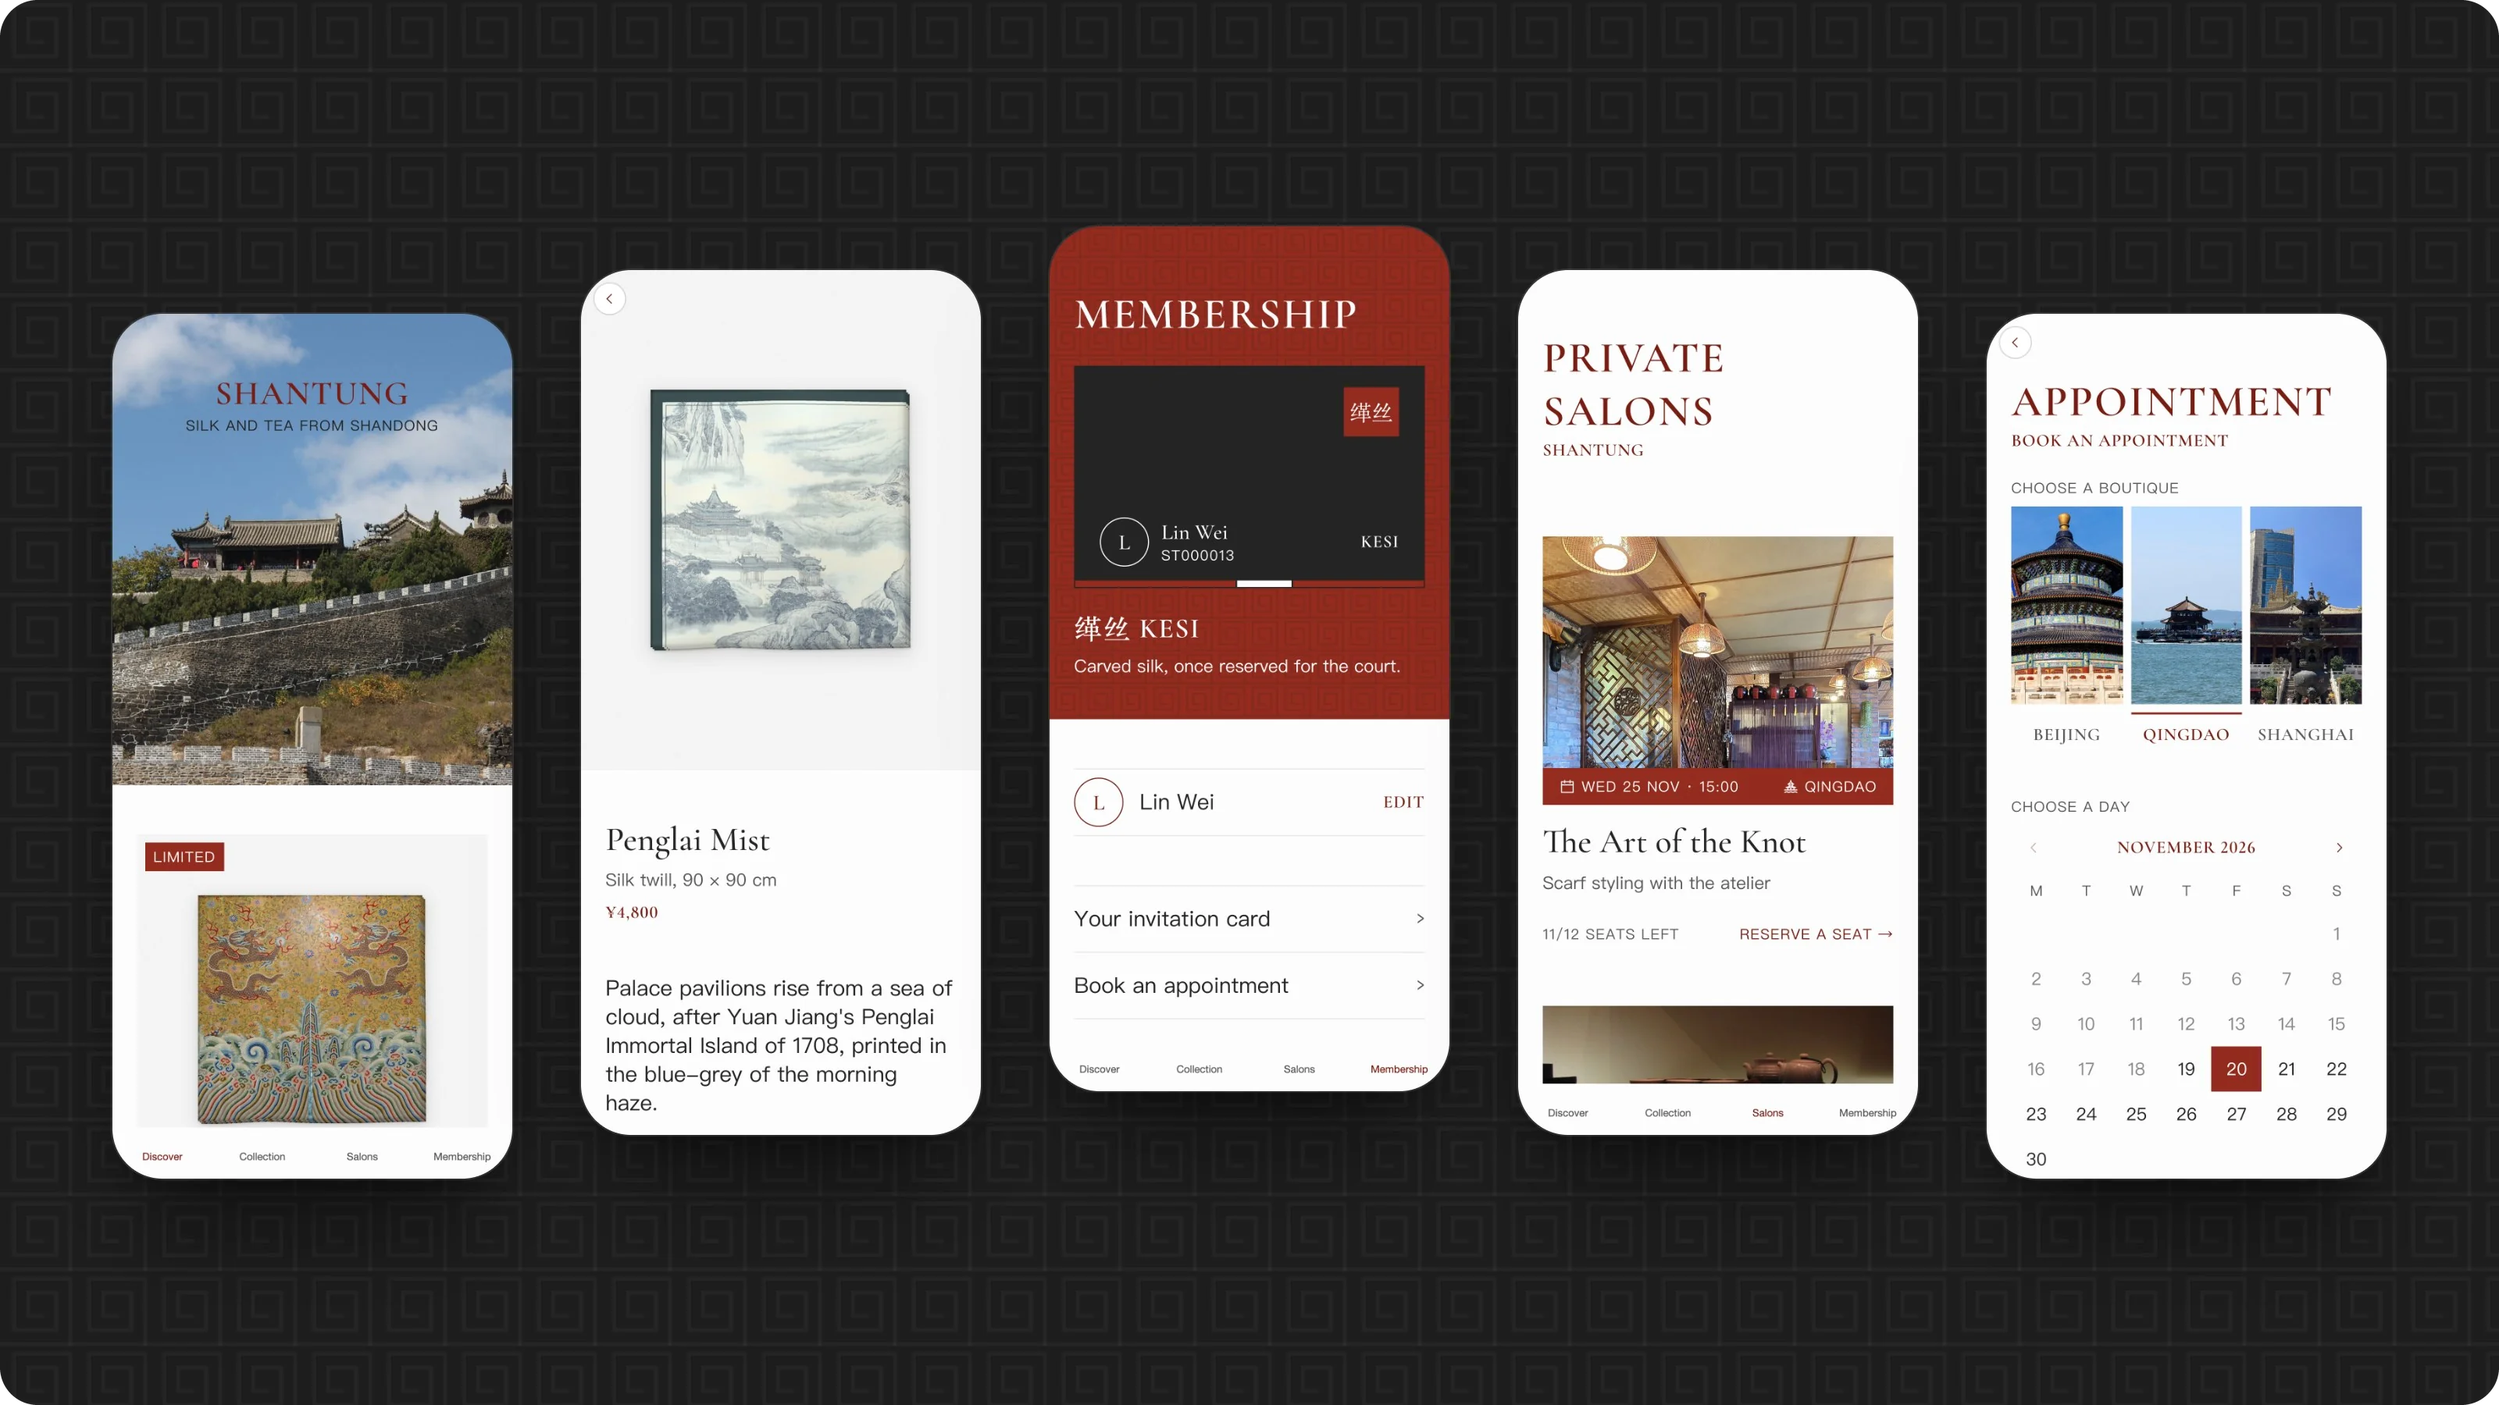
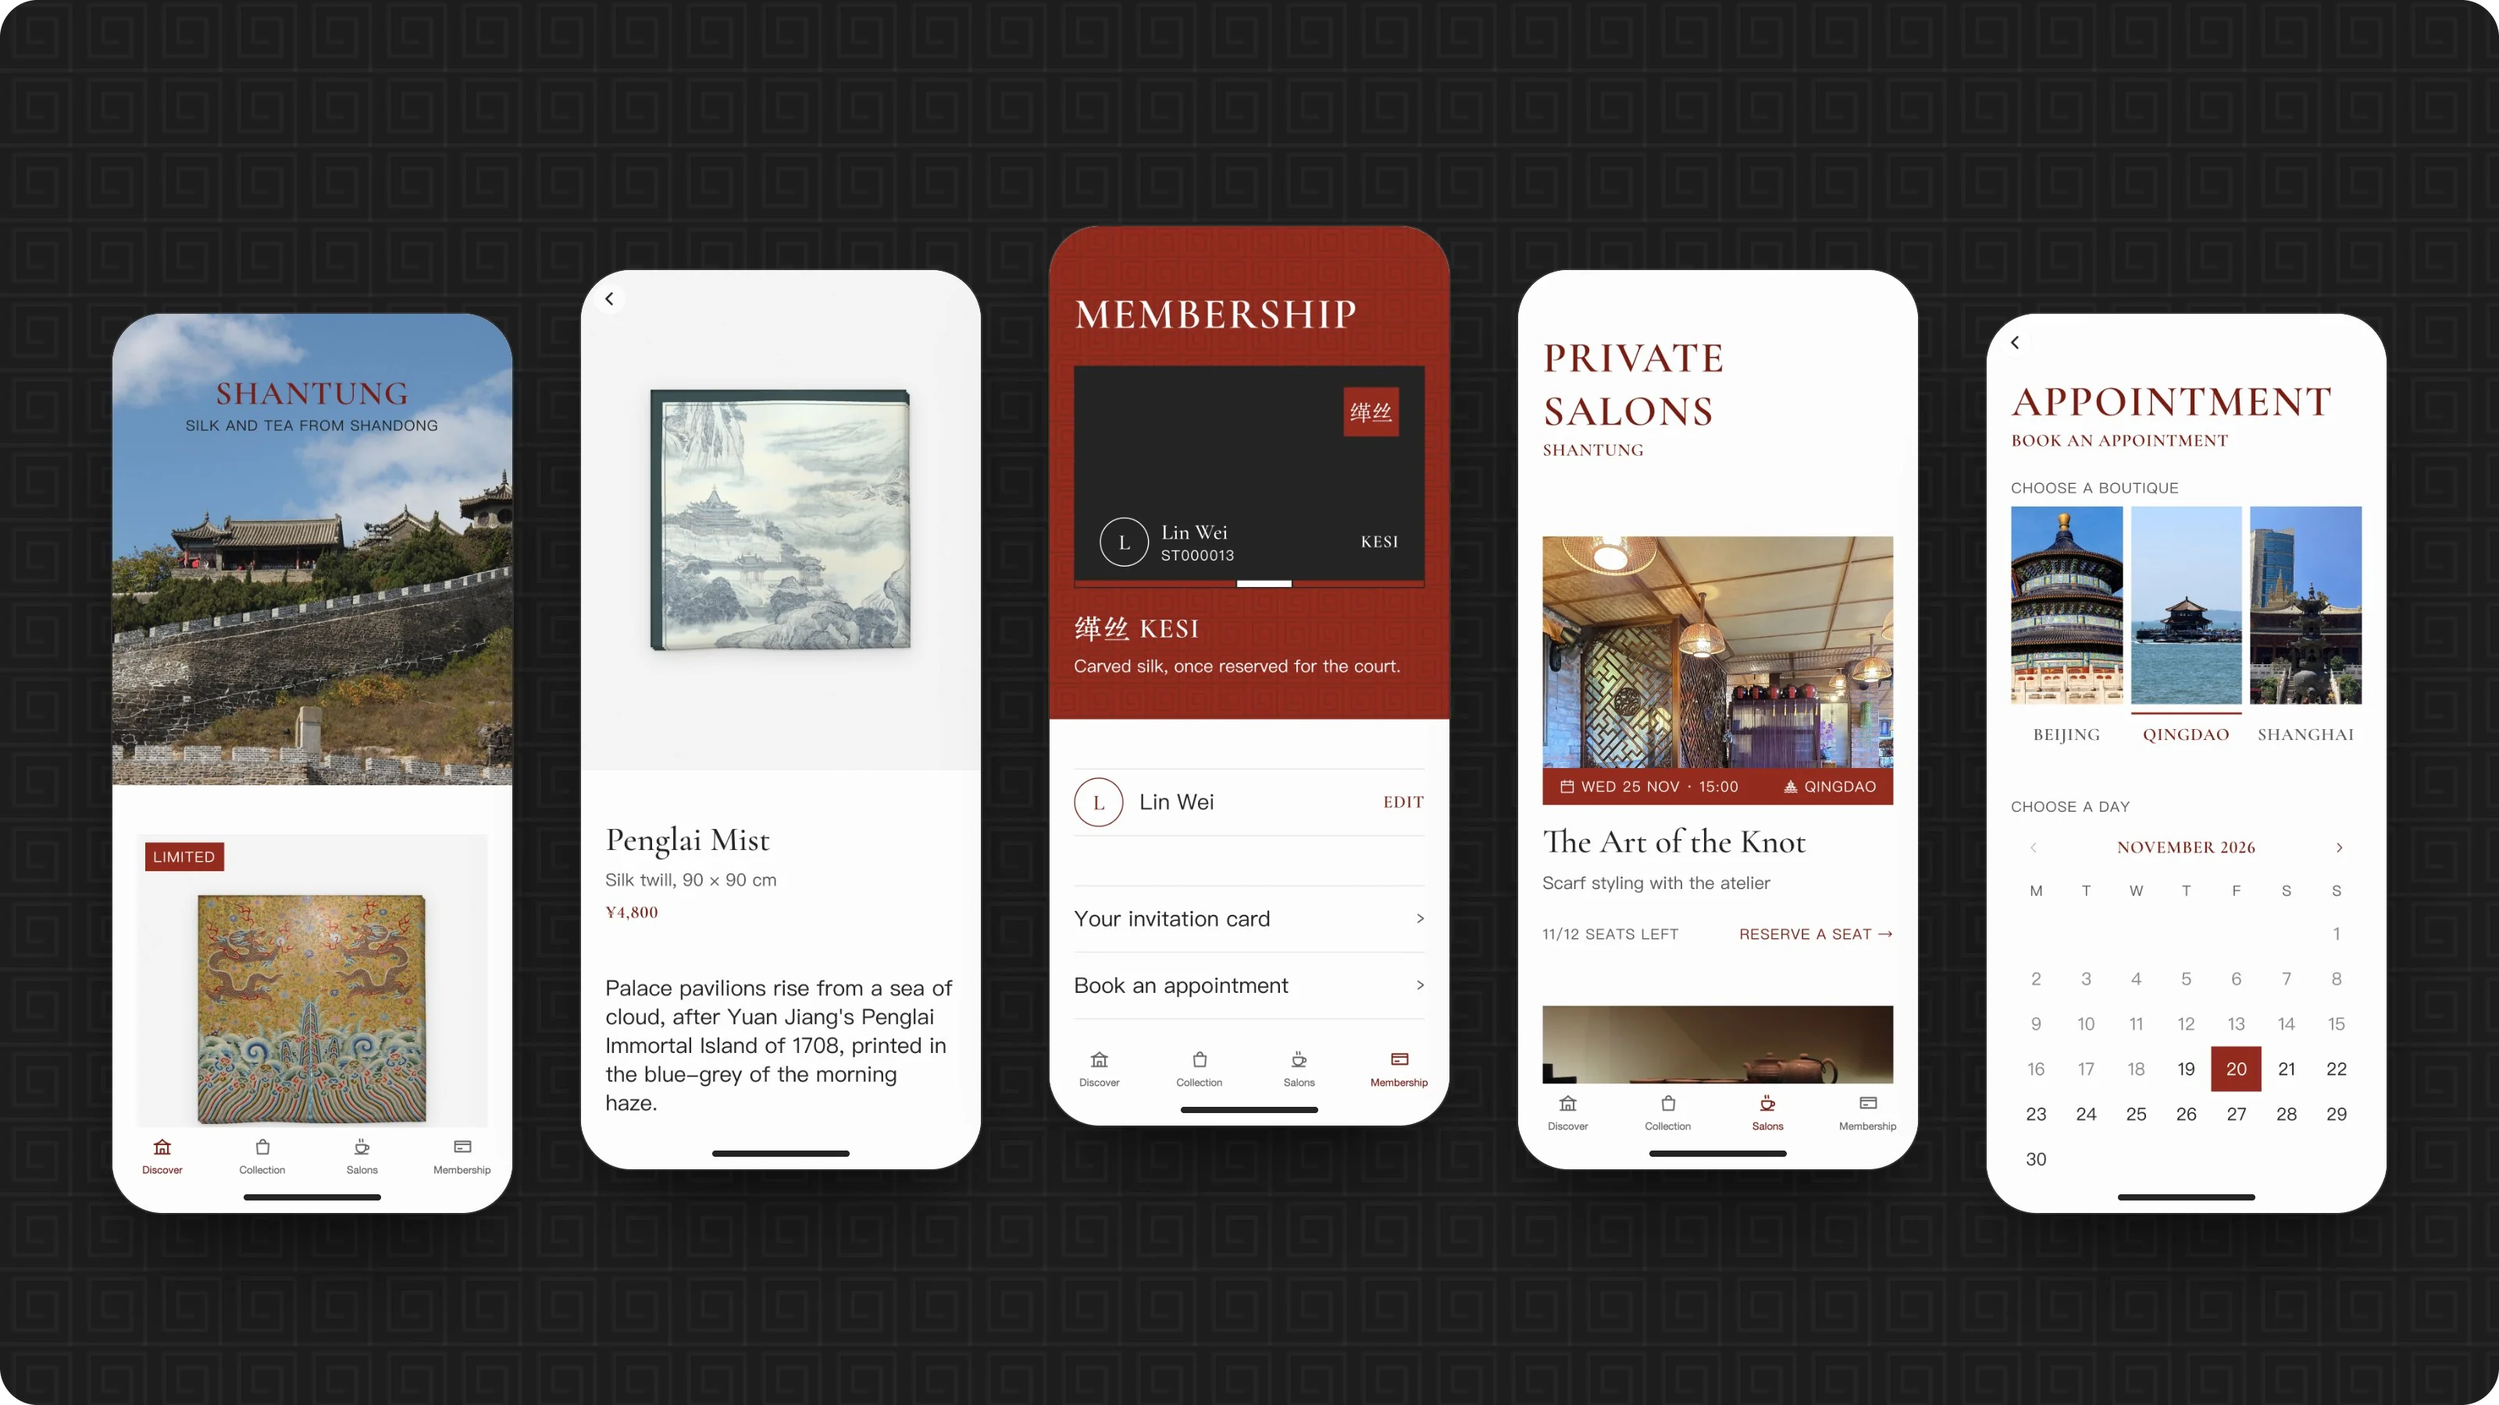
docs(readme): retake the hero and add a plate of the other screens

Changed region(s): [[0.0312, 0.7467, 0.9688, 0.8711]]

diff --git a/docs/README.ru.md b/docs/README.ru.md
@@ -42,8 +42,14 @@
 ### Для клиентов: мини-программа WeChat
 
 * **Коллекция:** платки, галстуки и чай из headless Drupal, на английском и упрощённом китайском (по умолчанию — язык телефона). Каждый экран хранит последнюю удачно загруженную версию, поэтому даже в подвале бутика без связи коллекцию видно.
+* **Истории и бутики:** большие тексты о шёлке Шаньдуна и чае Лаошаня с фотогалереями и страница каждого бутика, где адрес открывается в картах телефона.
+* **Лимитированные выпуски:** пронумерованные изделия с приоритетным окном для каждого уровня. Участники Kesi бронируют первыми, каждый следующий уровень — на день позже. На странице изделия окна показаны на шкале времени. Остаток хранит атомарный счётчик в Redis, а уникальный индекс PostgreSQL служит последней защитой: из 50 клиентов, одновременно претендующих на 12 мест, места получают ровно 12.
+
+<p align="center">
+  <img src="../assets/screens.webp" alt="Ещё экраны мини-программы: коллекция, шкала окон лимитированного выпуска, история, бутик в Циндао и пригласительная карта" width="820">
+</p>
+
 * **Уровни участия, названные в честь шёлка:** Thread 丝, Satin 缎, Brocade 锦 и Kesi 缂丝 (только по приглашению), у каждого своя карта. Участники также получают пригласительную карту, которую можно сохранить и отправить друзьям; её QR-код ведёт к дому.
-* **Лимитированные выпуски:** пронумерованные изделия с приоритетным окном для каждого уровня. Участники Kesi бронируют первыми, каждый следующий уровень — на день позже. Остаток хранит атомарный счётчик в Redis, а уникальный индекс PostgreSQL служит последней защитой: из 50 клиентов, одновременно претендующих на 12 мест, места получают ровно 12.
 * **Закрытые салоны и встречи:** места в салонах по уровню, индивидуальные встречи с календарём и сеткой свободного времени, бронь на примерку в бутике (держится 48 часов) и список желаний.
 
 <p align="center">

diff --git a/docs/README.fr.md b/docs/README.fr.md
@@ -42,8 +42,14 @@ L'application client et les outils de boutique de **Shantung**, une maison ficti
 ### Pour les clients : le Mini Program WeChat
 
 * **Collection :** carrés, cravates et thés servis par un Drupal headless, en anglais et en chinois simplifié (par défaut, la langue du téléphone). Chaque écran garde sa dernière version valide : même au sous-sol d'une boutique sans réseau, la collection reste visible.
+* **Récits et boutiques :** des récits sur la soie du Shandong et le thé du Laoshan avec leurs galeries de photos, et une page par boutique dont l'adresse ouvre l'application de cartes du téléphone.
+* **Éditions limitées :** des pièces numérotées, avec une fenêtre prioritaire par niveau. Les membres Kesi réservent en premier, chaque niveau inférieur un jour plus tard. La page de la pièce présente les fenêtres sous forme de frise. Un compteur atomique Redis tient le stock et un index unique PostgreSQL sert de dernier garde-fou : 50 clients qui se disputent 12 places en obtiennent exactement 12.
+
+<p align="center">
+  <img src="../assets/screens.webp" alt="Le Mini Program, suite : la collection, la frise des fenêtres d'une édition limitée, un récit, la boutique de Qingdao et la carte d'invitation" width="820">
+</p>
+
 * **Des niveaux de membre aux noms de soie :** Thread 丝, Satin 缎, Brocade 锦 et Kesi 缂丝 (sur invitation), chacun avec sa propre carte. Les membres reçoivent aussi une carte d'invitation à enregistrer et à partager avec leurs proches ; son QR code mène à la maison.
-* **Éditions limitées :** des pièces numérotées, avec une fenêtre prioritaire par niveau. Les membres Kesi réservent en premier, chaque niveau inférieur un jour plus tard. Un compteur atomique Redis tient le stock et un index unique PostgreSQL sert de dernier garde-fou : 50 clients qui se disputent 12 places en obtiennent exactement 12.
 * **Salons privés et rendez-vous :** des places en salon selon le niveau, des rendez-vous individuels avec un calendrier et une grille des horaires libres, la réservation pour essayer en boutique (gardée 48 heures) et une liste d'envies.
 
 <p align="center">

diff --git a/docs/README.es.md b/docs/README.es.md
@@ -42,8 +42,14 @@ La app para clientes y las herramientas de boutique de **Shantung**, una maison 
 ### Para los clientes: el Mini Program de WeChat
 
 * **Colección:** pañuelos, corbatas y té servidos por un Drupal headless, en inglés y en chino simplificado (por defecto, el idioma del teléfono). Cada pantalla guarda su última copia válida, así que en el sótano de una boutique sin cobertura la colección sigue visible.
+* **Historias y boutiques:** relatos largos sobre la seda de Shandong y el té de Laoshan con sus galerías de fotos, y una página por boutique cuya dirección abre la app de mapas del teléfono.
+* **Lanzamientos limitados:** piezas numeradas con una ventana prioritaria por nivel. Los miembros Kesi reservan primero; cada nivel inferior, un día después. La página de la pieza muestra las ventanas como una línea de tiempo. Un contador atómico en Redis guarda el stock y un índice único de PostgreSQL es la última barrera: 50 clientes que compiten por 12 plazas obtienen exactamente 12.
+
+<p align="center">
+  <img src="../assets/screens.webp" alt="Más del Mini Program: la colección, la línea de tiempo de una pieza limitada, una historia, la boutique de Qingdao y la tarjeta de invitación" width="820">
+</p>
+
 * **Niveles de membresía con nombres de seda:** Thread 丝, Satin 缎, Brocade 锦 y Kesi 缂丝 (por invitación), cada uno con su propia tarjeta. Los miembros también reciben una tarjeta de invitación para guardar y compartir con sus amigos; su código QR lleva a la maison.
-* **Lanzamientos limitados:** piezas numeradas con una ventana prioritaria por nivel. Los miembros Kesi reservan primero; cada nivel inferior, un día después. Un contador atómico en Redis guarda el stock y un índice único de PostgreSQL es la última barrera: 50 clientes que compiten por 12 plazas obtienen exactamente 12.
 * **Salones privados y citas:** plazas en salones según el nivel, citas individuales con un calendario y una cuadrícula de horas libres, reserva para probar en boutique (guardada 48 horas) y una lista de deseos.
 
 <p align="center">

diff --git a/README.md b/README.md
@@ -42,8 +42,14 @@ The client app and boutique tools of **Shantung**, a fictional Shandong maison o
 ### For clients: the WeChat Mini Program
 
 * **Collection:** scarves, ties and tea from a headless Drupal, in English and Simplified Chinese (the phone's language by default). Every screen keeps its last good copy, so a boutique basement with no signal still shows the collection.
+* **Stories and boutiques:** long reads on Shandong silk and Laoshan tea with their photo galleries, and a page for each boutique whose address opens the phone's map app.
+* **Limited releases:** numbered pieces with a priority window per tier. Kesi members reserve first, each lower tier one day later. The piece's page draws the windows as a timeline. An atomic Redis counter holds the stock and a PostgreSQL unique index is the last guard, so 50 clients racing for 12 seats get exactly 12.
+
+<p align="center">
+  <img src="assets/screens.webp" alt="More of the Mini Program: the collection, the release timeline of a limited piece, a story, the Qingdao boutique and the invitation card" width="820">
+</p>
+
 * **Membership tiers named after silk:** Thread 丝, Satin 缎, Brocade 锦 and Kesi 缂丝 (by invitation), each with its own card. Members also get an invitation card to save and share with friends; its QR code leads to the maison.
-* **Limited releases:** numbered pieces with a priority window per tier. Kesi members reserve first, each lower tier one day later. An atomic Redis counter holds the stock and a PostgreSQL unique index is the last guard, so 50 clients racing for 12 seats get exactly 12.
 * **Private salons and appointments:** salon seats by tier, one-to-one appointments with a calendar and a grid of free times, reserve-to-try in a boutique (held 48 hours), and a wishlist.
 
 <p align="center">

diff --git a/docs/README.zh.md b/docs/README.zh.md
@@ -42,8 +42,14 @@
 ### 面向客户：微信小程序
 
 * **系列：** 丝巾、领带与茶叶的内容来自无头 Drupal，支持英文与简体中文（默认跟随手机语言）。每个页面都会保存最近一次成功加载的内容，即使在信号不佳的精品店地下层也能浏览系列。
+* **故事与精品店：** 关于山东丝绸与崂山茶的长篇故事及图集；每家精品店都有专页，点击地址即可在手机地图中打开。
+* **限量发售：** 逐一编号的作品，每个等级都有优先预留通道。缂丝会员最先预留，此后每低一级晚一日开放。作品页以时间轴呈现各级通道。库存由 Redis 原子计数器管理，PostgreSQL 唯一索引作为最后一道保障：50 位客户同时抢 12 个席位，恰好 12 位成功。
+
+<p align="center">
+  <img src="../assets/screens.zh.webp" alt="更多小程序页面：系列、限量作品的预留时间轴、故事、青岛精品店与邀请卡" width="820">
+</p>
+
 * **以丝绸命名的会员等级：** 丝 Thread、缎 Satin、锦 Brocade 与缂丝 Kesi（仅限受邀），每个等级都有专属会员卡。会员还会获得一张邀请卡，可保存并分享给好友，扫描卡上的二维码即可了解本坊。
-* **限量发售：** 逐一编号的作品，每个等级都有优先预留通道。缂丝会员最先预留，此后每低一级晚一日开放。库存由 Redis 原子计数器管理，PostgreSQL 唯一索引作为最后一道保障：50 位客户同时抢 12 个席位，恰好 12 位成功。
 * **私享沙龙与预约：** 按等级预留沙龙席位；一对一到店预约，配有日历与可选时段；预约到店试戴（保留 48 小时）；以及心愿单。
 
 <p align="center">
